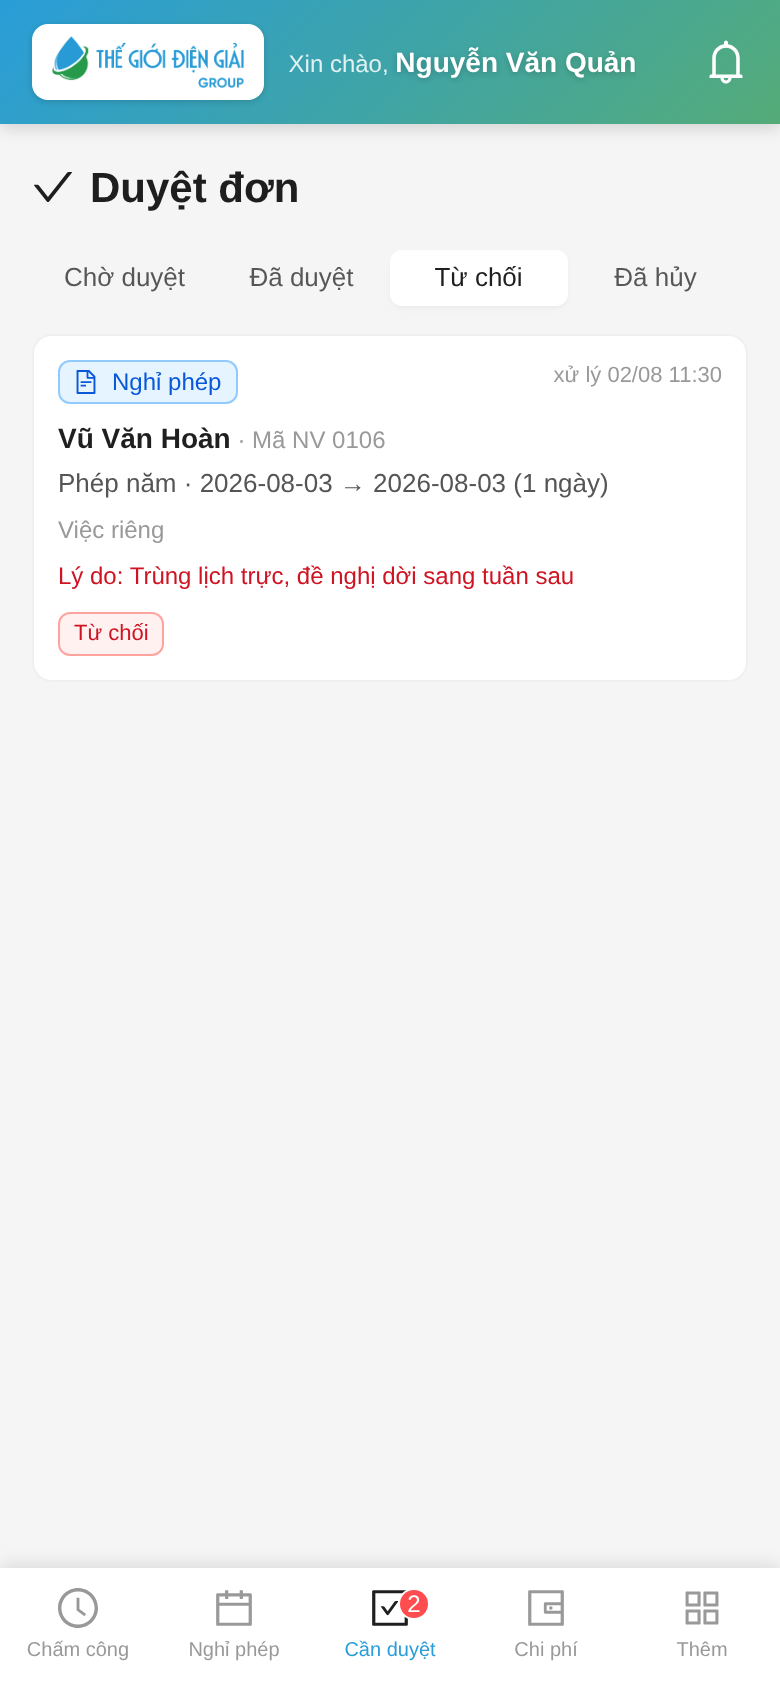
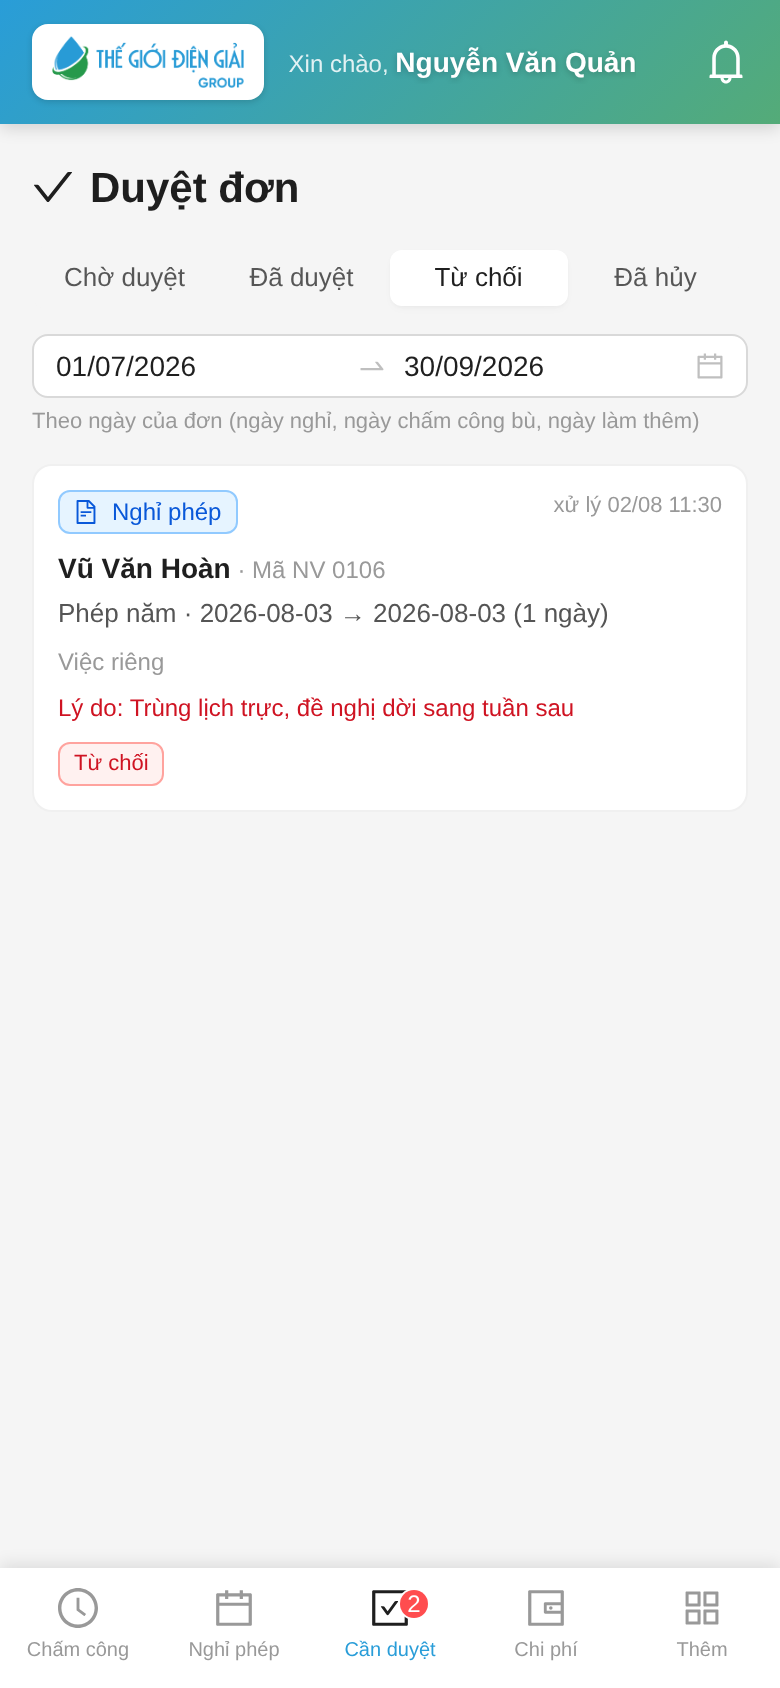
docs(approvals): describe the date-range filter on the handled-request tabs
- Cancel-approved-leave guide: new "choose a date range" paragraph in the
  log-tabs section (filter is by the request's own dates, default window
  last month → next month, pending tab unaffected, 30 rows per page, what
  the "range too wide" warning means) and re-shot the four tab screenshots
  so they show the range picker.
- Overtime approval guide: the undo panel no longer lists "the last 45
  days"; it follows the selected range.

diff --git a/users/Duyet-Huy-Don-Nghi-Phep.md b/users/Duyet-Huy-Don-Nghi-Phep.md
@@ -105,6 +105,18 @@ Nay màn **Duyệt đơn** có **4 tab**:
 Ba tab sau là **nhật ký của riêng bạn**: chỉ hiện đơn **chính bạn** đã bấm duyệt/từ chối/huỷ,
 không phải mọi đơn của công ty.
 
+**Chọn khoảng ngày.** Ở ba tab này có ô **Từ ngày → Đến ngày** phía trên danh sách. Danh sách chỉ
+gồm đơn có **ngày của đơn** (ngày nghỉ, ngày chấm công bù, ngày làm thêm) nằm trong khoảng đã chọn —
+đơn nghỉ kéo dài nhiều ngày chỉ cần một ngày rơi vào khoảng là được liệt kê. Khoảng ngày tính theo
+ngày của đơn, **không** theo ngày bạn bấm duyệt: muốn rà đơn của kỳ công tháng 9 thì chọn
+01/09 → 30/09, kể cả những đơn được duyệt muộn sang tháng 10.
+
+- Mặc định: từ **đầu tháng trước** đến **cuối tháng sau** — đủ để thấy các đơn vừa xử, kể cả đơn khai
+  bù cho tháng trước và đơn xin nghỉ trước cho tháng sau.
+- Tab **Chờ duyệt** không có ô này: đơn đang chờ luôn hiện đủ.
+- Danh sách dài được chia trang, mỗi trang 30 đơn.
+- Nếu hiện cảnh báo *"Khoảng ngày quá rộng, danh sách chưa đủ"* thì thu hẹp khoảng ngày lại.
+
 Đơn được xếp theo **trạng thái hiện tại**, không phải theo việc bạn đã bấm gì. Bạn duyệt một đơn,
 sau đó HR huỷ đơn ấy → nó chuyển từ tab *Đã duyệt* sang tab **Đã hủy** của bạn, để bạn thấy đúng
 tình trạng bây giờ.

diff --git a/users/Duyet-Lam-Them.md b/users/Duyet-Lam-Them.md
@@ -154,8 +154,9 @@ Hay gặp nhất là **duyệt nhầm hình thức quy đổi** (Tiền lương 
 thì tab *Cần duyệt* không còn thấy nữa, nhưng huỷ được ở hai chỗ:
 
 - **Trên app** — vào **Cần duyệt** → tab **"Đã duyệt"** → lọc **Làm thêm giờ** → bấm **Huỷ duyệt**
-  ở đơn cần sửa. Tab này liệt kê đơn đã duyệt có **ngày làm thêm** trong 45 ngày gần đây (không phải
-  ngày duyệt — đơn khai bù cho ngày cũ vừa duyệt xong sẽ không nằm ở đây, huỷ duyệt trên Desk) của
+  ở đơn cần sửa. Tab này liệt kê đơn đã duyệt có **ngày làm thêm** nằm trong **khoảng ngày** chọn ở ô
+  phía trên (mặc định từ đầu tháng trước đến cuối tháng sau; tính theo ngày làm thêm, không theo ngày
+  duyệt — đơn khai bù cho ngày cũ thì chọn khoảng ngày lùi về tháng đó) của
   nhân viên có **bạn là người duyệt chấm công trên hồ sơ Employee** (HR Manager / System Manager thấy tất cả). Người duyệt
   chỉ được khai ở bảng của Department thì không thấy đơn ở đây — huỷ trên Desk.
 - **Trên Desk** — tìm **HR Overtime Request** → mở đơn → bấm nút đỏ **"Huỷ duyệt"**.
